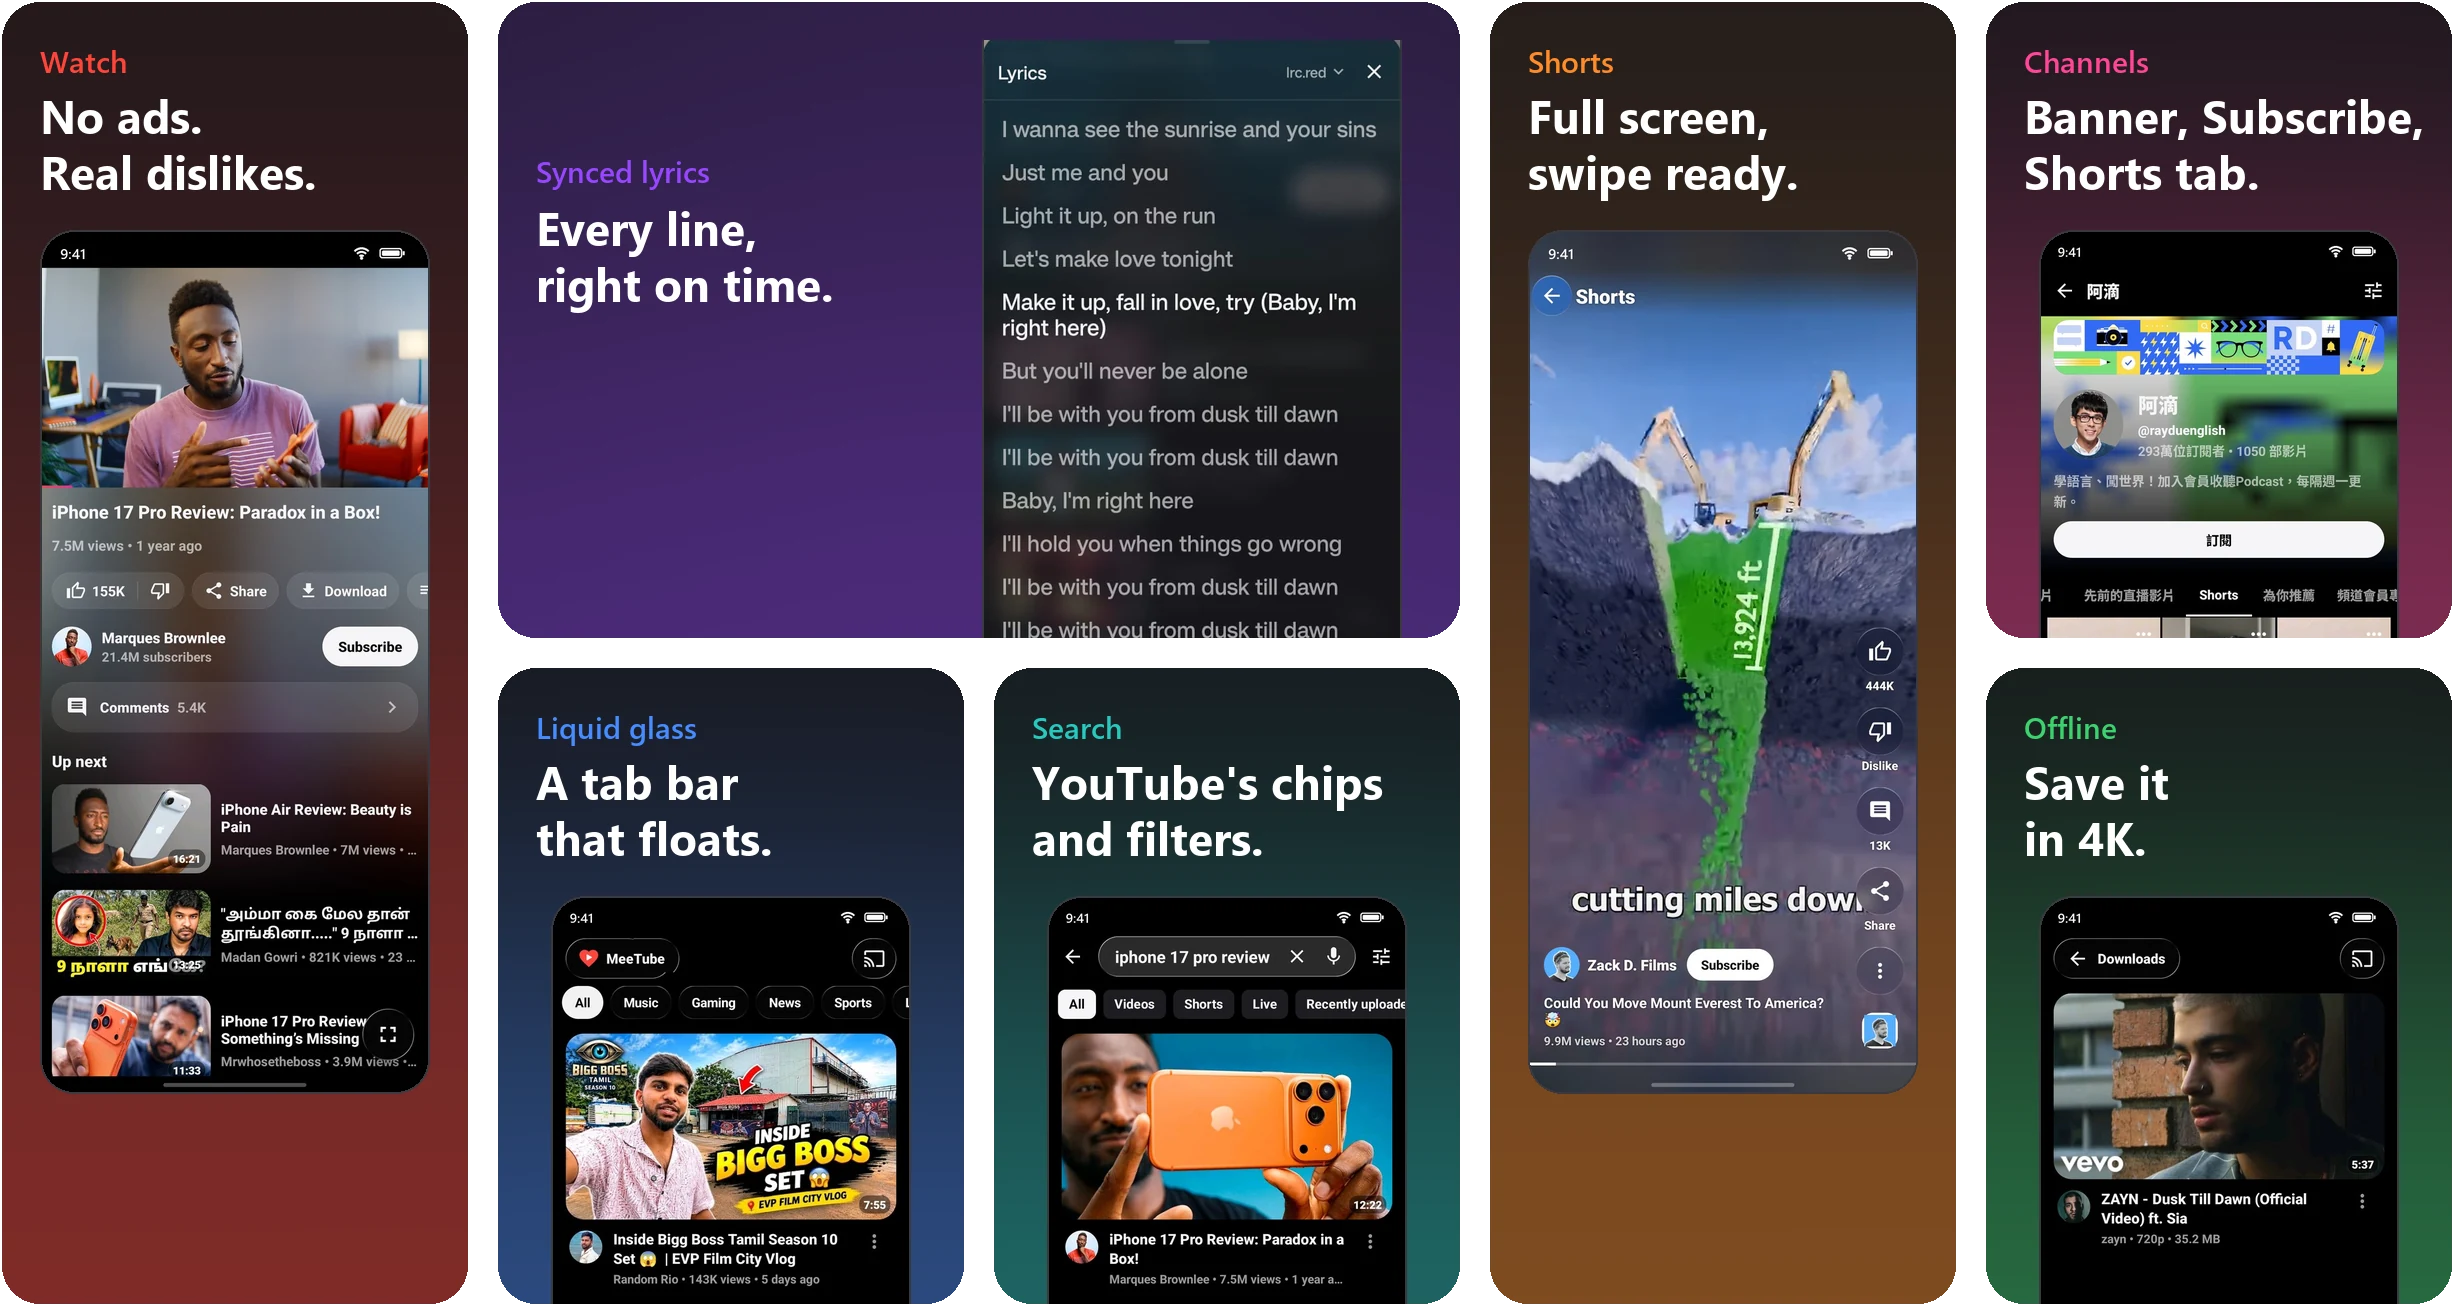
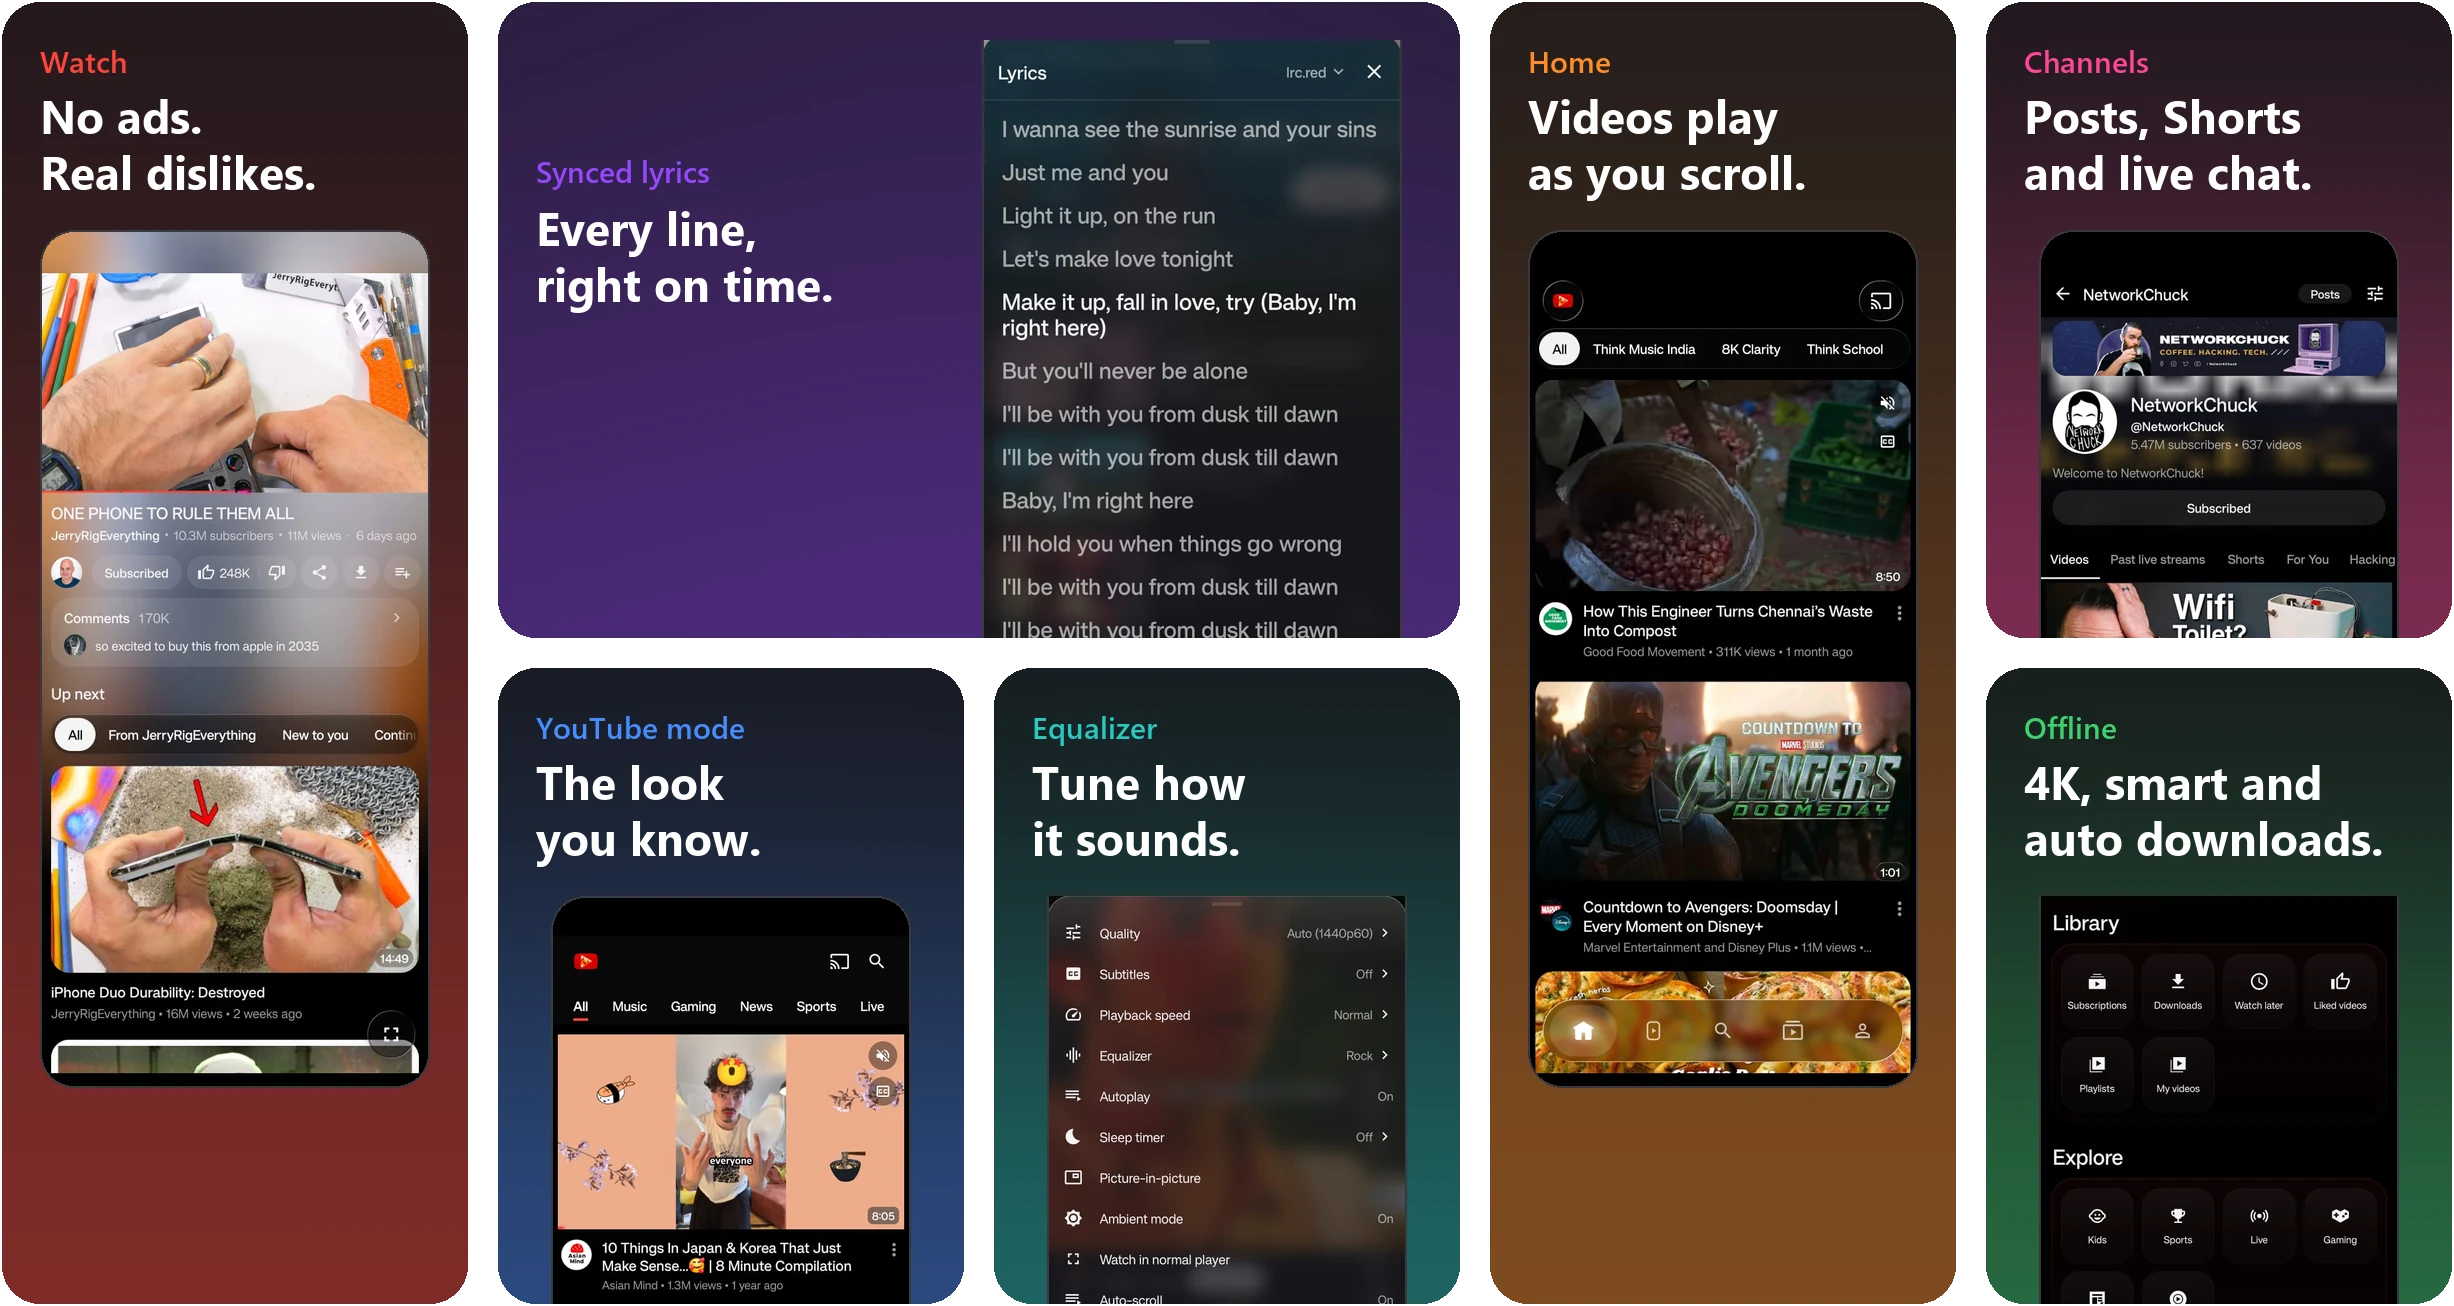
README: the poster is back on top, redrawn with the new screens: Watch, synced lyrics, Home playing as you scroll, channels with posts and live chat, YouTube mode, the equalizer, and 4K, smart and auto downloads

diff --git a/tools/render_showcase.py b/tools/render_showcase.py
@@ -56,14 +56,16 @@ def glow(size, center, radius, color, alpha):
 BENTO_COLS, BENTO_ROWS = 5, 2
 CARD_W, CARD_H, GAP = 470, 640, 26
 CARDS = [  # screen, caption, headline, col, row, col span, row span, layout, tint
-    ('watch', 'Watch', 'No ads.\nReal dislikes.', 0, 0, 1, 2, 'full', (255, 69, 58)),
+    ('screens/compact_player', 'Watch', 'No ads.\nReal dislikes.', 0, 0, 1, 2, 'full', (255, 69, 58)),
     ('lyrics', 'Synced lyrics', 'Every line,\nright on time.', 1, 0, 2, 1, 'side', (150, 70, 255)),
-    ('shorts', 'Shorts', 'Full screen,\nswipe ready.', 3, 0, 1, 2, 'full', (255, 140, 40)),
-    ('channel', 'Channels', 'Banner, Subscribe,\nShorts tab.', 4, 0, 1, 1, 'peek', (255, 70, 150)),
-    ('home', 'Liquid glass', 'A tab bar\nthat floats.', 1, 1, 1, 1, 'peek', (70, 140, 255)),
-    ('search', 'Search', "YouTube's chips\nand filters.", 2, 1, 1, 1, 'peek', (40, 200, 190)),
-    ('downloads', 'Offline', 'Save it\nin 4K.', 4, 1, 1, 1, 'peek', (60, 210, 110)),
+    ('screens/home', 'Home', 'Videos play\nas you scroll.', 3, 0, 1, 2, 'full', (255, 140, 40)),
+    ('screens/channel', 'Channels', 'Posts, Shorts\nand live chat.', 4, 0, 1, 1, 'peek', (255, 70, 150)),
+    ('screens/youtube_mode', 'YouTube mode', 'The look\nyou know.', 1, 1, 1, 1, 'peek', (70, 140, 255)),
+    ('screens/equalizer', 'Equalizer', 'Tune how\nit sounds.', 2, 1, 1, 1, 'peek', (40, 200, 190)),
+    ('screens/you', 'Offline', '4K, smart and\nauto downloads.', 4, 1, 1, 1, 'peek', (60, 210, 110)),
 ]
+
+PEEK_FROM = {'screens/equalizer': 0.38, 'screens/you': 0.37}
 
 
 def card(name, caption, headline, w, h, layout, tint):
@@ -89,7 +91,8 @@ def card(name, caption, headline, w, h, layout, tint):
             img.alpha_composite(s, ((w - s.width) // 2, top))
         else:
             s = screen(name, w - 2 * pad - 30)
-            img.alpha_composite(s.crop((0, 0, s.width, h - top)), ((w - s.width) // 2, top))
+            y0 = int(s.height * PEEK_FROM.get(name, 0))   # where the peek starts, for screens whose subject sits low
+            img.alpha_composite(s.crop((0, y0, s.width, y0 + h - top)), ((w - s.width) // 2, top))
     return finish(img)
 
 

diff --git a/README.md b/README.md
@@ -10,6 +10,8 @@
 
 **YouTube, reimagined. Different by design. Smooth by nature.** <br><br> No ads. No interruptions. Just a gorgeous liquid glass interface, synced lyrics, background playback, and one-tap downloads.<br><br> **A fresh way to experience YouTube.**<br><br>
 
+<p align="center"><img src=".github/assets/meetube/showcase.webp" width="100%" alt="MeeTube in seven cards: Watch (no ads, real dislikes), Synced lyrics (every line, right on time), Home (videos play as you scroll), Channels (posts, Shorts and live chat), YouTube mode (the look you know), Equalizer (tune how it sounds) and Offline (4K, smart and auto downloads)"></p>
+
 <p align="center">
 <img src=".github/assets/meetube/screens/home.jpg" width="24%" alt="Home, the top video playing as you scroll">
 <img src=".github/assets/meetube/screens/compact_player.jpg" width="24%" alt="The compact watch page">
